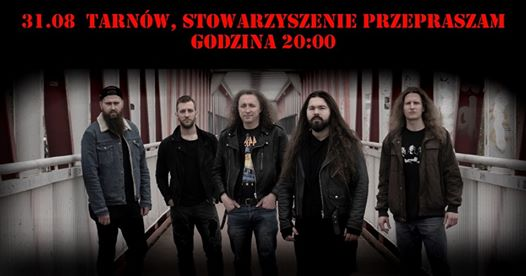
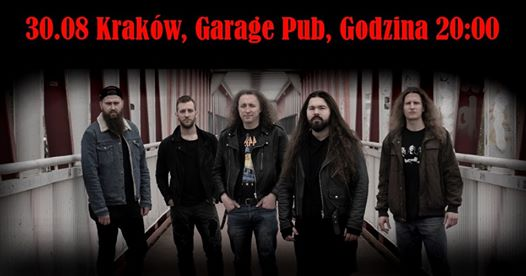
fix2

Changed region(s): [[0.0304, 0.029, 0.9734, 0.2029]]

diff --git a/index.html b/index.html
@@ -146,7 +146,7 @@
                 </div>
 
                 <div class="w3-third w3-margin-bottom">
-                    <img src="images/scarlet30.jpg"
+                    <img src="images/scarlet31.jpg"
                          style="width:100%">
                     <div class="w3-container w3-white">
                         <p><b>Scarlet / Broken Chair / Smiertelnik</b></p>
